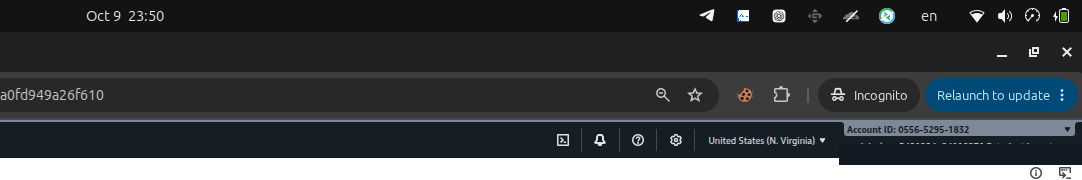
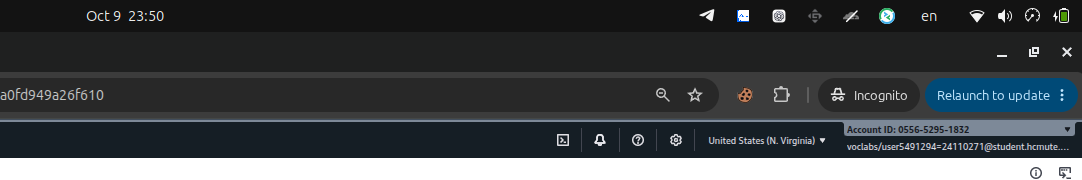
docs: restore account email in week 1 evidence

Changed region(s): [[0.7625, 0.8611, 1.0, 0.9167], [0.7625, 0.7778, 1.0, 0.8333]]

diff --git a/docs/week-1/phuc/bao-cao-tuan-1.md b/docs/week-1/phuc/bao-cao-tuan-1.md
@@ -24,7 +24,7 @@ Mục tiêu của buổi cấu hình được ghi lại trong báo cáo là tạ
 | 23:45 | Tạo và kiểm tra security group cho ALB. | Chỉ mở HTTP port `80` từ `0.0.0.0/0` cho đường vào demo. ECS và RDS sẽ không dùng rule public này. |
 | 23:49–23:51 | Nhập rule ECS SG và cấu hình RDS SG, sau đó bấm **Create** (theo xác nhận của em). | ECS nhận port `8081`/`8082` từ ALB SG; RDS chưa mở inbound vì nhóm chưa chọn PostgreSQL hay MySQL. Cần ảnh trang chi tiết để xác nhận ID và trạng thái sau tạo. |
 
-**Dấu thời gian, Account ID và Region của ảnh gốc:** thanh trên của AWS Console cho thấy Account ID `055652951832`, `United States (N. Virginia)` tức `us-east-1`, và thời gian chụp. Ảnh cắt dưới đây giữ phần nhận diện này và che địa chỉ email tài khoản; các ảnh cấu hình tiếp theo được đối chiếu từ cùng loạt ảnh gốc.
+Thanh trên của AWS Console cho thấy Account ID `055652951832`, Region `us-east-1` và thời gian chụp.
 
 ![Bối cảnh AWS Console: thời gian, Region, Account ID](images/09-console-context.png)
 
